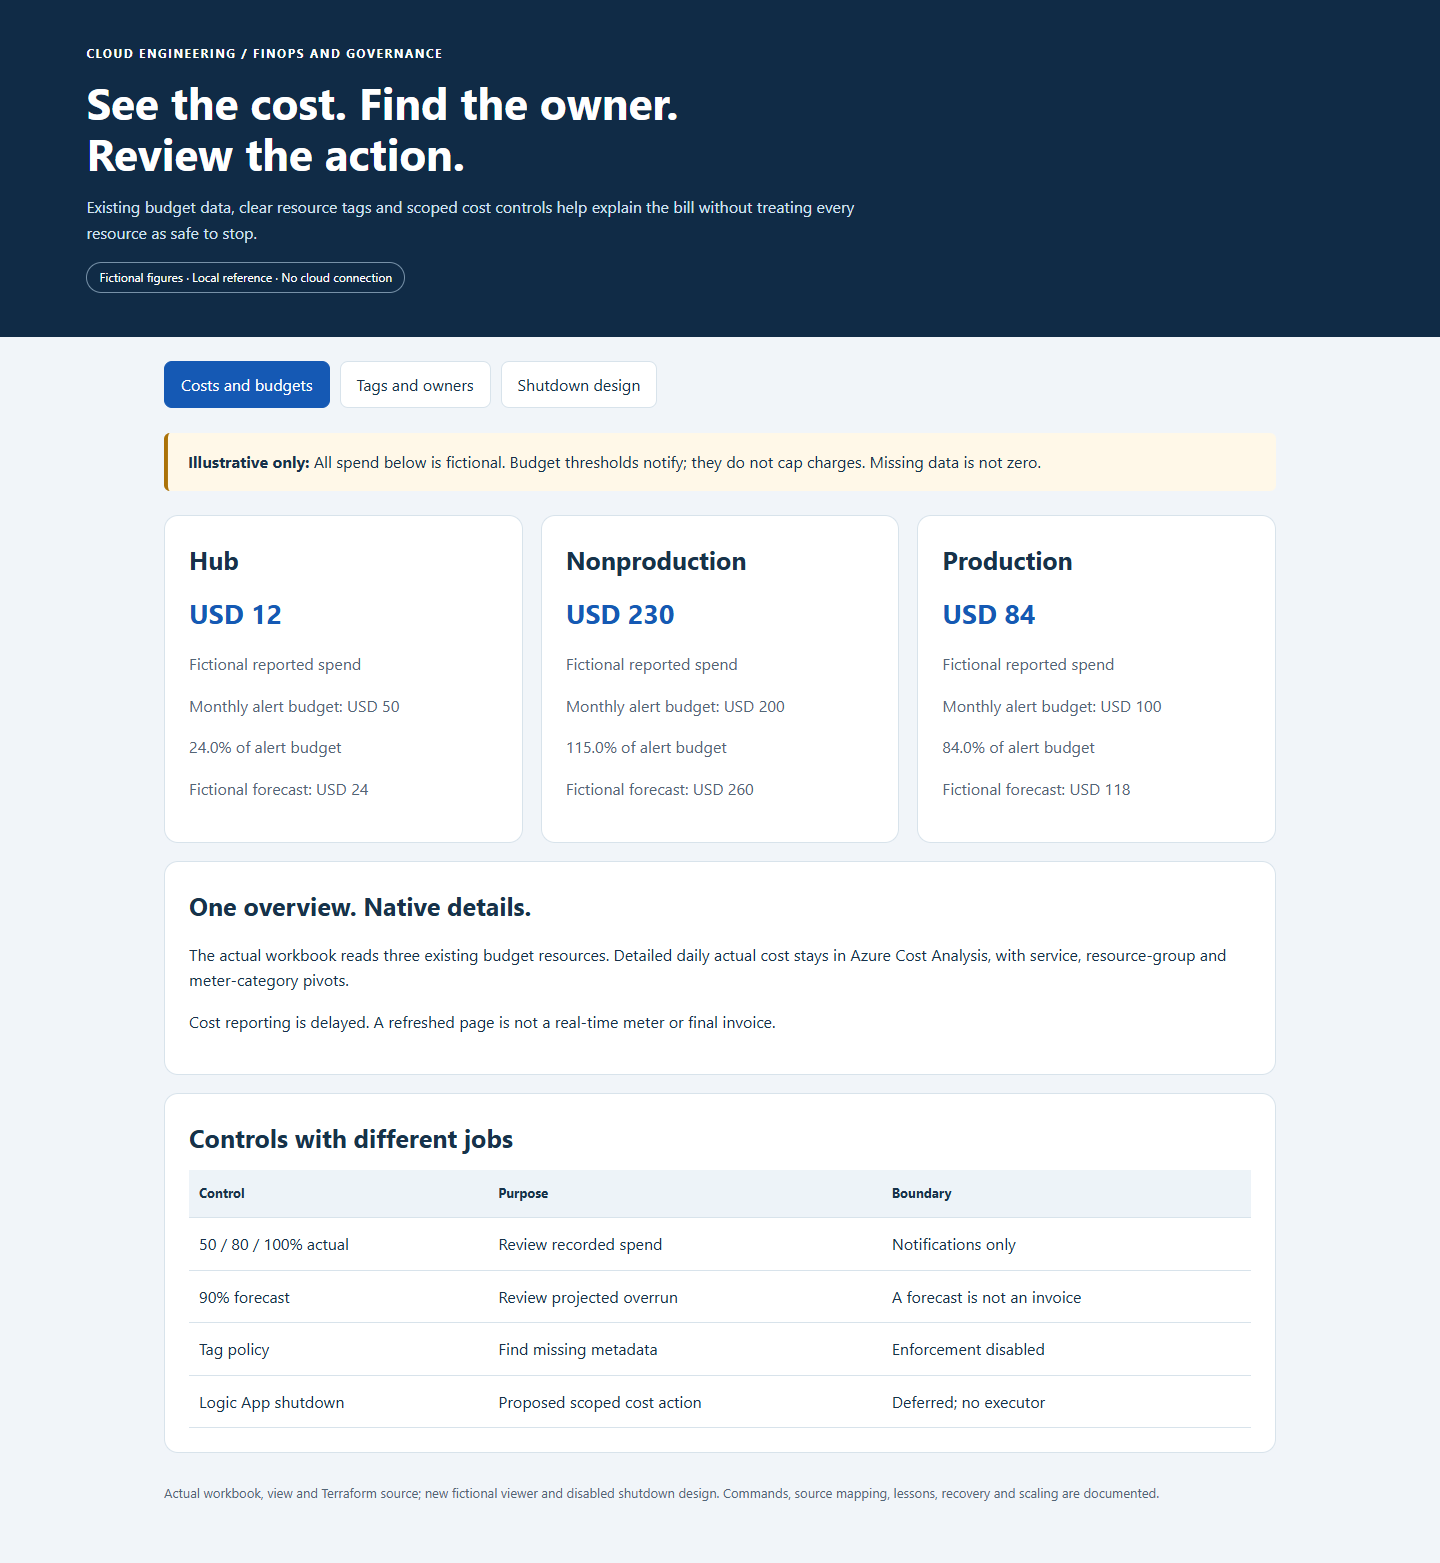
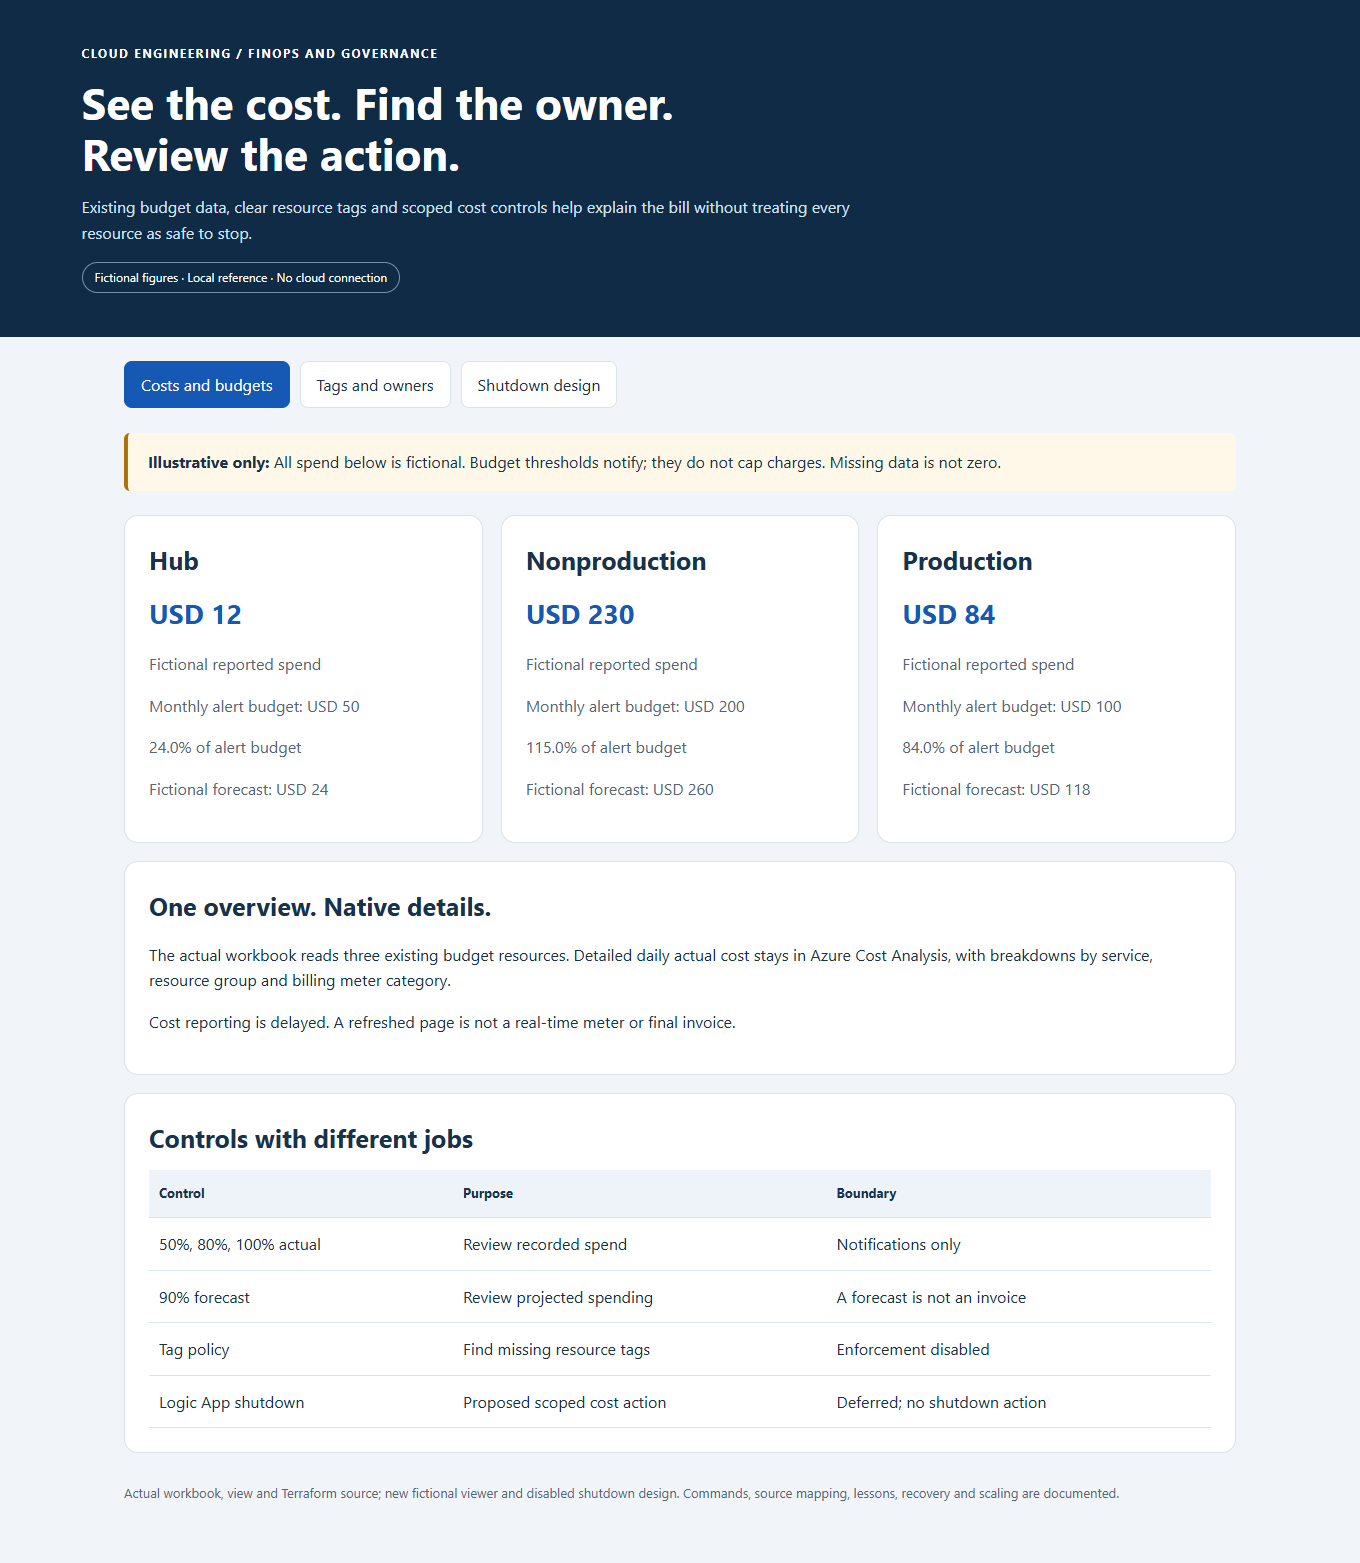
Simplify supporting guides and align preview text and screenshots

diff --git a/preview/index.html b/preview/index.html
@@ -3,8 +3,8 @@
 </style></head><body>
 <header><div class="eyebrow">Cloud engineering / FinOps and governance</div><h1>See the cost. Find the owner.<br>Review the action.</h1><p>Existing budget data, clear resource tags and scoped cost controls help explain the bill without treating every resource as safe to stop.</p><span class="pill">Fictional figures · Local reference · No cloud connection</span></header><main>
 <nav role="tablist" aria-label="Project sections"><button role="tab" id="tab-costs" aria-controls="costs" aria-selected="true">Costs and budgets</button><button role="tab" id="tab-tags" aria-controls="tags" aria-selected="false">Tags and owners</button><button role="tab" id="tab-shutdown" aria-controls="shutdown" aria-selected="false">Shutdown design</button></nav>
-<section id="costs" role="tabpanel" aria-labelledby="tab-costs"><div class="note"><strong>Illustrative only:</strong> All spend below is fictional. Budget thresholds notify; they do not cap charges. Missing data is not zero.</div><div class="grid" id="budget-cards"></div><div class="box"><h2>One overview. Native details.</h2><p>The actual workbook reads three existing budget resources. Detailed daily actual cost stays in Azure Cost Analysis, with service, resource-group and meter-category pivots.</p><p>Cost reporting is delayed. A refreshed page is not a real-time meter or final invoice.</p></div><div class="box"><h2>Controls with different jobs</h2><div class="table-wrap"><table><thead><tr><th>Control</th><th>Purpose</th><th>Boundary</th></tr></thead><tbody><tr><td>50 / 80 / 100% actual</td><td>Review recorded spend</td><td>Notifications only</td></tr><tr><td>90% forecast</td><td>Review projected overrun</td><td>A forecast is not an invoice</td></tr><tr><td>Tag policy</td><td>Find missing metadata</td><td>Enforcement disabled</td></tr><tr><td>Logic App shutdown</td><td>Proposed scoped cost action</td><td>Deferred; no executor</td></tr></tbody></table></div></div></section>
+<section id="costs" role="tabpanel" aria-labelledby="tab-costs"><div class="note"><strong>Illustrative only:</strong> All spend below is fictional. Budget thresholds notify; they do not cap charges. Missing data is not zero.</div><div class="grid" id="budget-cards"></div><div class="box"><h2>One overview. Native details.</h2><p>The actual workbook reads three existing budget resources. Detailed daily actual cost stays in Azure Cost Analysis, with breakdowns by service, resource group and billing meter category.</p><p>Cost reporting is delayed. A refreshed page is not a real-time meter or final invoice.</p></div><div class="box"><h2>Controls with different jobs</h2><div class="table-wrap"><table><thead><tr><th>Control</th><th>Purpose</th><th>Boundary</th></tr></thead><tbody><tr><td>50%, 80%, 100% actual</td><td>Review recorded spend</td><td>Notifications only</td></tr><tr><td>90% forecast</td><td>Review projected spending</td><td>A forecast is not an invoice</td></tr><tr><td>Tag policy</td><td>Find missing resource tags</td><td>Enforcement disabled</td></tr><tr><td>Logic App shutdown</td><td>Proposed scoped cost action</td><td>Deferred; no shutdown action</td></tr></tbody></table></div></div></section>
 <section id="tags" role="tabpanel" aria-labelledby="tab-tags" hidden><div class="box"><h2>Ownership should be easy to find</h2><p>Seven common keys identify environment, workload, owner, management method, data class, criticality and cost center.</p><div class="table-wrap"><table><thead><tr><th>Fictional resource</th><th>Owner</th><th>Cost center</th><th>Missing tags</th></tr></thead><tbody id="tag-rows"></tbody></table></div></div><div class="note"><strong>Source gap kept visible:</strong> The copied workbook builder omits criticality. The checks identify it; they do not silently change the live resource.</div><div class="box"><h2>Tags support a decision. They do not authorize it.</h2><p>A nonproduction subscription can contain shared production dependencies. Resource-group tags do not automatically become resource tags. The copied policy evaluates compliance without enforcing or remediating it.</p></div></section>
-<section id="shutdown" role="tabpanel" aria-labelledby="tab-shutdown" hidden><div class="note"><strong>Design only:</strong> The Logic App is Disabled and contains only a review Compose action. No webhook, role grant, stop action or executor is deployed.</div><div class="box"><h2>Plan first. Every result remains non-executing.</h2><p>The fictional pilot considers one allowlisted nonproduction VM with a fresh snapshot and no active work. Shared and production dependencies are protected.</p><div class="table-wrap"><table><thead><tr><th>Scenario</th><th>Planning result</th><th>Executes?</th></tr></thead><tbody id="shutdown-rows"></tbody></table></div></div><div class="grid"><article class="card"><h3>Budget alert</h3><p>Reported actual or forecast spend prompts review. It does not stop a resource.</p></article><article class="card"><h3>Actual VM schedule</h3><p>The source has a separate daily 8 PM Central shutdown. It does not start the VM or cap the bill.</p></article><article class="card"><h3>Retained costs</h3><p>Deallocation releases VM compute. Disks, IPs, storage and shared services can still cost money.</p></article></div></section>
+<section id="shutdown" role="tabpanel" aria-labelledby="tab-shutdown" hidden><div class="note"><strong>Design only:</strong> The Logic App is Disabled and contains only a review Compose action. No webhook, role grant, stop action or executor is deployed.</div><div class="box"><h2>Review the plan. Nothing is stopped.</h2><p>The fictional pilot considers one allowlisted nonproduction VM with a fresh snapshot and no active work. Shared and production dependencies are protected.</p><div class="table-wrap"><table><thead><tr><th>Scenario</th><th>Planning result</th><th>Executes?</th></tr></thead><tbody id="shutdown-rows"></tbody></table></div></div><div class="grid"><article class="card"><h3>Budget alert</h3><p>Reported actual or forecast spend prompts review. It does not stop a resource.</p></article><article class="card"><h3>Actual VM schedule</h3><p>The source has a separate daily 8 PM Central shutdown. It does not start the VM or cap the bill.</p></article><article class="card"><h3>Retained costs</h3><p>Deallocation releases VM compute. Disks, IPs, storage and shared services can still cost money.</p></article></div></section>
 <footer>Actual workbook, view and Terraform source; new fictional viewer and disabled shutdown design. Commands, source mapping, lessons, recovery and scaling are documented.</footer></main>
 <script>const tabs=[...document.querySelectorAll('[role=tab]')];function select(tab){for(const t of tabs){t.setAttribute('aria-selected',String(t===tab));document.getElementById(t.getAttribute('aria-controls')).hidden=t!==tab}}for(const tab of tabs){tab.addEventListener('click',()=>select(tab));tab.addEventListener('keydown',e=>{if(['ArrowLeft','ArrowRight'].includes(e.key)){e.preventDefault();const next=tabs[(tabs.indexOf(tab)+(e.key==='ArrowRight'?1:-1)+tabs.length)%tabs.length];select(next);next.focus()}})}function el(tag,text,cls){const e=document.createElement(tag);e.textContent=text;if(cls)e.className=cls;return e}function row(id,values){const tr=document.createElement('tr');values.forEach(x=>tr.append(el('td',x)));document.getElementById(id).append(tr)}fetch('/data.json').then(r=>{if(!r.ok)throw Error('Reference data unavailable');return r.json()}).then(data=>{for(const b of data.budgets){const c=el('article','','card');c.append(el('h2',b.scope),el('div',b.currency+' '+b.reported,'big'),el('p','Fictional reported spend'),el('p','Monthly alert budget: '+b.currency+' '+b.budget),el('p',b.percentage===null?'Budget comparison unknown':b.percentage+'% of alert budget'),el('p','Fictional forecast: '+b.currency+' '+b.forecast));document.getElementById('budget-cards').append(c)}for(const r of data.resources)row('tag-rows',[r.name,r.tags.owner||'Unassigned',r.tags.cost_center||'Unassigned',r.missing.length?r.missing.join(', '):'None']);for(const s of data.shutdown)row('shutdown-rows',[s.scenario,s.status.replaceAll('_',' '),String(s.execute)])}).catch(e=>{const p=el('p',e.message);p.setAttribute('role','alert');document.querySelector('main').prepend(p)});</script></body></html>

diff --git a/docs/IMPLEMENTATION.md b/docs/IMPLEMENTATION.md
@@ -1,6 +1,6 @@
 # How Cost Visibility Fits Together
 
-## Three scopes, not one pooled allowance
+## Separate budgets for each environment
 
 The recorded implementation has separate hub, nonproduction and production budget scopes. Historical configured thresholds were $50, $200 and $100 respectively; they are not a tenant-wide allowance or current invoice. The public data uses those example budget amounts with fictional spend. Subscription ownership and actual source inputs must be verified before making a live claim.
 
@@ -8,13 +8,13 @@ The recorded implementation has separate hub, nonproduction and production budge
 
 The actual Python builder creates one shared Azure Monitor workbook. Each panel issues an ARM GET for an existing budget and displays its budget amount, current reported spend, currency and period start. It does not run a Cost Management Usage query on every page load or create a Log Analytics workspace, Logic App, budget or cost-ingestion pipeline.
 
-Detailed analysis stays in native Cost Management saved views. The actual helper builds daily month-to-date ActualCost views with a budget KPI and pivots for service name, resource group and meter category. It reads existing views, checks selected expected fields and the month-to-date window, and refuses those mismatches instead of overwriting them. The existing-view comparison does not validate every possible query property; the local builder test is not full live-view conformance. Creating absent views requires its explicit `--apply` flag; even its default mode contacts Azure. This project imports only its pure body builder or uses fake responses, never its live CLI path.
+Detailed analysis stays in Azure Cost Management saved views. The helper builds daily month-to-date spending views with a budget indicator and breakdowns by service, resource group and billing meter category. It reads existing views, checks selected expected fields and the month-to-date window, and refuses those mismatches instead of overwriting them. The existing-view comparison does not validate every possible query property; the local builder test is not full live-view conformance. Creating absent views requires its explicit `--apply` flag; even its default mode contacts Azure. This project imports only its pure body builder or uses fake responses, never its live CLI path.
 
 A workbook reader still needs permission to the budget resources and appropriate Cost Management access for detailed spend. Sharing a view does not grant billing permissions. Blank data can mean missing access or delayed reporting; it is not zero spend.
 
 ## Budget semantics
 
-The copied budget has 50%, 80% and 100% Actual notifications plus a 90% Forecasted notification. Its email recipient is an input. The public wrapper supplies an example address and defaults absent; it has no automation Action Group. The original budget uses a monthly time grain and preserves its initial period through a lifecycle setting.
+The copied budget has 50%, 80% and 100% Actual notifications plus a 90% Forecasted notification. Its email recipient is an input. The public example supplies a fictional address and creates no budget by default; it has no automation Action Group. The original budget uses a monthly time grain and preserves its initial period through a lifecycle setting.
 
 Cost data and evaluation are delayed. Notifications prompt investigation; they do not reserve cash, stop meters or cap charges. A forecast is a projection, not an invoice. The local percentage model is only arithmetic over fictional supplied values; it is not Azure's forecast algorithm.
 
@@ -26,10 +26,10 @@ The actual governance module assigns built-in location and required-tag policies
 
 ## Shutdown boundary
 
-The actual VM schedule is distinct from the deferred budget-triggered Logic App. Its source supplies a daily local shutdown time, Central Standard Time as Azure's time-zone identifier, and no automatic start. The new Logic App file is a disabled, Compose-only design, with a separate fictional planner and no executor. See [the design](SHUTDOWN-DESIGN.md).
+The actual VM schedule is distinct from the deferred budget-triggered Logic App. Its source supplies a daily local shutdown time, Central Standard Time as Azure's time-zone identifier, and no automatic start. The Logic App example is disabled and contains only a Compose step that prepares data. Its separate fictional planner cannot stop resources. See [the design](SHUTDOWN-DESIGN.md).
 
 ## Historical evidence
 
-The original workbook deployment's what-if identified one workbook create without new workspaces or budget changes. Control-plane readback confirmed its panels and shared native views; separate portal visual rendering was not established in that record. Those are historical outcomes, not a new publication or live acceptance test for these public copies.
+The original workbook deployment's what-if identified one workbook create without new workspaces or budget changes. Azure resource reads confirmed the saved panels and shared views; separate portal visual rendering was not established in that record. Those are historical outcomes, not a new publication or live acceptance test for these public copies.
 
 References: [budgets and evaluation](https://learn.microsoft.com/en-us/azure/cost-management-billing/costs/tutorial-acm-create-budgets), [Azure tags](https://learn.microsoft.com/en-us/azure/azure-resource-manager/management/tag-resources), [policy enforcement mode](https://learn.microsoft.com/en-us/azure/governance/policy/concepts/assignment-structure).

diff --git a/docs/SHUTDOWN-DESIGN.md b/docs/SHUTDOWN-DESIGN.md
@@ -6,8 +6,8 @@
 | --- | --- |
 | Actual/forecast budget emails | Actual implementation source |
 | Backstage daily VM shutdown | Actual source reference, separate from budgets |
-| Budget-to-Action Group or webhook connection | Not commissioned here |
-| Logic App shutdown executor | Not implemented; deferred platform item |
+| Budget-to-Action Group or webhook connection | Not connected in this example |
+| Logic App code that stops resources | Not implemented; deferred platform item |
 | Disabled Compose-only Logic App | New public design example |
 | Allowlist decisions | New local model with fictional snapshots; every output has `execute: false` |
 
@@ -24,13 +24,13 @@ flowchart TD
   Executor --> Verify[Verify achieved state and record outcome]
 ```
 
-The included design does not implement Auth or Executor. It has no RBAC grants, ARM stop/deallocate HTTP action, active schedule or webhook registration. Its Compose output is not proof that a request is trusted. Do not activate it and assume the local guard is an authorization boundary.
+The included design does not implement event authentication or shutdown actions. It has no RBAC grants, ARM stop/deallocate HTTP action, active schedule or webhook registration. Its Compose output is not proof that a request is trusted. Turning it on would not add the missing authentication or permissions checks.
 
 ## Local pilot model
 
 The model defaults disabled. With an in-memory fictional pilot flag it considers only an Actual 100% event, an exact subscription and resource allowlist, a snapshot no older than five minutes, a nonproduction VM, no shared dependency and no active work. Its only eligible result is a proposed deallocation requiring review. Forecast alerts do not authorize a shutdown.
 
-Snapshot freshness does not make billing real time. Budget events can arrive after charges have accrued. The model does not authenticate webhooks, query Azure dependencies, persist duplicate-event handling, bind an approval, calculate a final invoice or perform recovery. Those remain requirements before any executor is designed or commissioned.
+Snapshot freshness does not make billing real time. Budget events can arrive after charges have accrued. The model does not authenticate webhooks, query Azure dependencies, persist duplicate-event handling, bind an approval, calculate a final invoice or perform recovery. Those remain requirements before real shutdown code can be implemented and used.
 
 ## Required safeguards for a real implementation
 

diff --git a/docs/OPERATIONS-AND-SCALING.md b/docs/OPERATIONS-AND-SCALING.md
@@ -22,16 +22,16 @@ The current workbook is intentionally small: three known subscription-budget pan
 
 Measure missing-tag coverage, unattributed spend, idle retained resources, log volume and change outcomes. Add quality checks before claiming chargeback accuracy. Tags alone do not solve shared allocation, credits, commitment discounts, multiple currencies or owner accountability.
 
-Keep the workbook's reads bounded and use Cost Management's supported reporting cadence. Frequent refresh does not accelerate cost-data arrival. A custom export/data platform has its own storage, compute and maintenance cost; add it only when the native views no longer meet a concrete need.
+Limit the workbook's queries and use Cost Management's supported reporting cadence. Frequent refresh does not accelerate cost-data arrival. A custom export/data platform has its own storage, compute and maintenance cost; add it only when the native views no longer meet a concrete need.
 
 ## Strengths and tradeoffs
 
 | Choice | Strength | Cost or limit |
 | --- | --- | --- |
-| Existing-budget workbook | Small extra operating footprint | Delayed reported-spend snapshot, not detailed real-time metering |
+| Existing-budget workbook | Little additional infrastructure | Delayed reported-spend snapshot, not detailed real-time metering |
 | Native Cost Analysis views | Azure's existing breakdown and permissions | Scope/service/contract support and correct user access still matter |
 | Evaluation-only tag policy | Finds gaps without unexpected deployment denials | Gaps remain until owners fix them; it is not enforcement |
 | On-demand engineering VM | Reduces unattended compute runtime | Retained charges and availability interruptions remain |
-| Explicit shutdown allowlist design | Limits a future action's blast radius | Needs real dependency checks, event authentication, durable dedupe and recovery before execution |
+| Explicit shutdown allowlist design | Limits which resources a future action can affect | Needs real dependency checks, verified events, persistent duplicate protection and recovery before it can act |
 
 Budget-triggered shutdown is not a reliable hard cap because cost reporting and alert evaluation lag usage. Do not suspend protective scanning, backups or production dependencies to satisfy a dashboard target.

diff --git a/docs/VALIDATION.md b/docs/VALIDATION.md
@@ -20,3 +20,14 @@ Screenshots: [costs](images/01-costs.png), [tags](images/02-tags.png), [shutdown
 The tests cover template/view structure and the new fictional review models, not live billing arrival, Azure Policy compliance, notification delivery, actual resource dependencies or a shutdown executor. Terraform uses simulated responses. The deferred Logic App stays an undeployed design and contains no stop action.
 
 No workbook publish, budget update, recipient change, tag remediation, VM start/stop, Logic App activation or hosted GitHub run is performed. Historical records are dated context, not permission to repeat an earlier operation.
+
+## Wording and preview review - November 6, 2026
+
+The supporting guides and preview labels received another plain-language review.
+Screenshots were refreshed from the local fictional viewer. Desktop tabs loaded
+without browser errors, and the 390-pixel mobile view had no horizontal page
+overflow. External browser requests were blocked. HTML structure and embedded
+scripts remained unchanged; this pass changed text and screenshots only.
+
+These browser checks did not repeat cloud acceptance or the earlier code tests.
+No Azure service, Gmail account, provider session or hosted Actions run was used.
